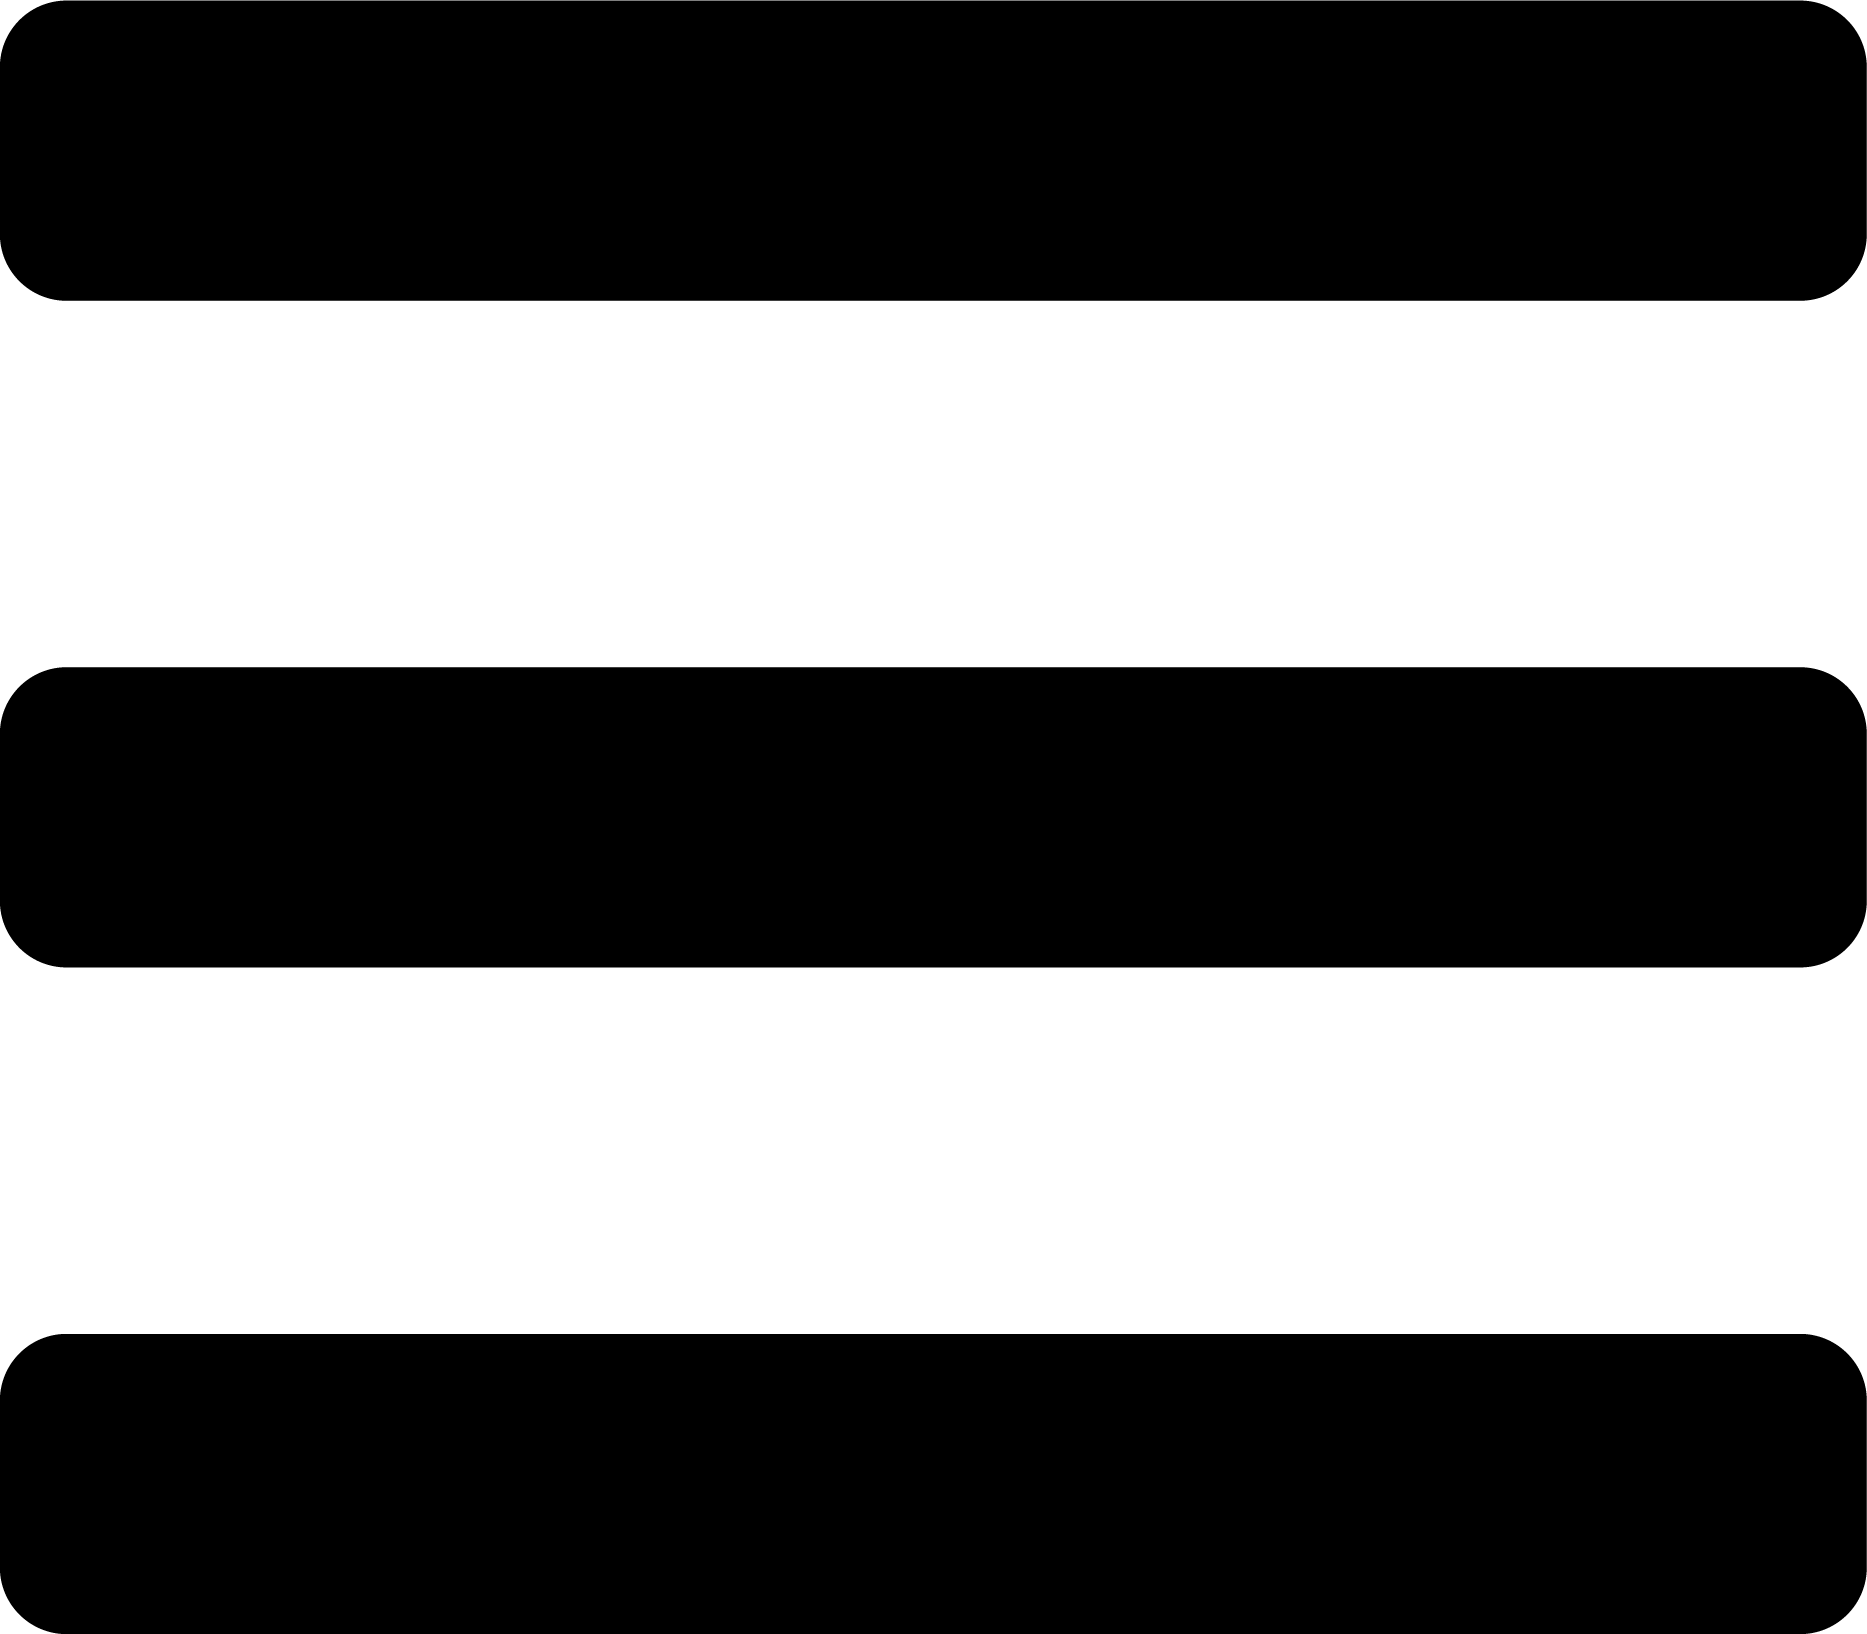
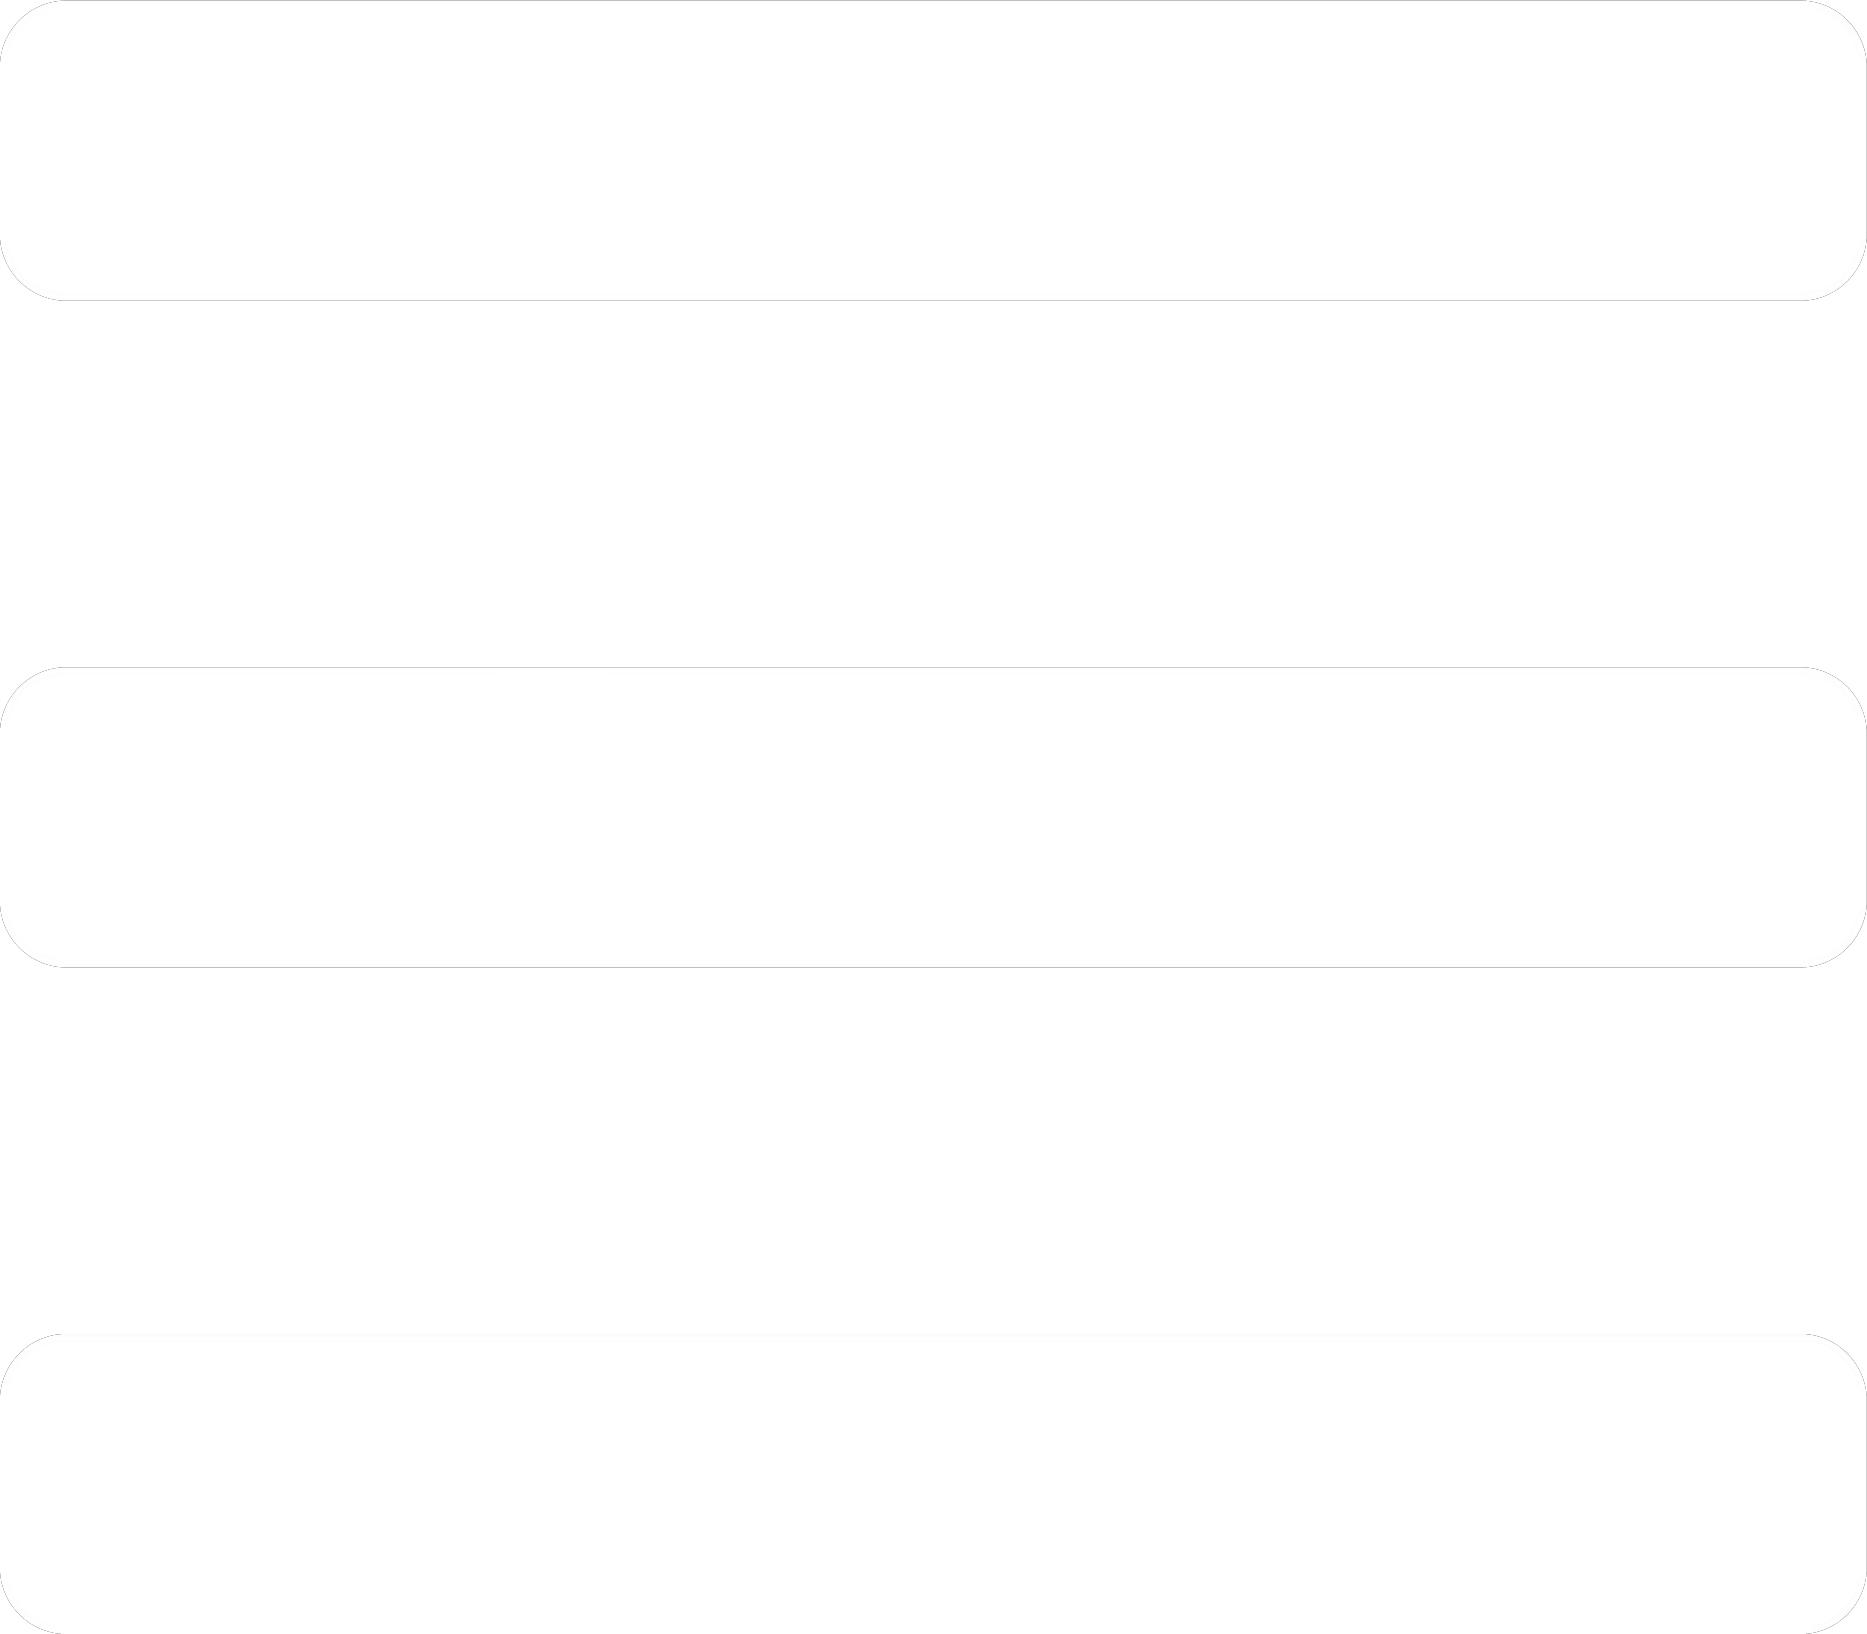
Finsish section services and Add a hamburger Menu

diff --git a/sass/style.scss b/sass/style.scss
@@ -77,6 +77,30 @@ body {
   }
 }
 
+.nav__menu-hamburger {
+  display: none;
+}
+
+.nav__menu-hamburger-ul {
+  display: none;
+  position: absolute;
+  left: -220%;
+  top: -10px;
+  border: 1px solid white;
+  list-style-type: none;
+  color: white;
+  font-size: 30px;
+  background: gold;
+  line-height: 40px;
+  padding: 20px;
+  z-index: 0;
+}
+
+.nav__menu-hamburger-a {
+  text-decoration: none;
+  color: white;
+}
+
 .nav__menu-ul {
   margin-top: 47px;
 }
@@ -163,12 +187,13 @@ body {
   flex-direction: column;
   align-items: center;
   margin-bottom: 165px;
+  padding: 0 20px;
+  text-align: center;
 
   h1 {
     font-size: $font-size-services-title-h1;
     font-family: $font-family-services-title-h1;
     font-weight: 900;
-    text-align: center;
     text-transform: uppercase;
   }
 
@@ -234,14 +259,12 @@ body {
     text-align: center;
     line-height: 20px;
   }
-
-  // margin-top: 110px;
 }
 
-
-
-
 //portfolio
+.portfolio {
+  background: rgb(206, 206, 206);
+}
 
 //footer
 
@@ -252,8 +275,20 @@ body {
     position: absolute;
     left: 10%;
   }
+
   .nav__menu-ul {
     display: none;
+  }
+
+  .nav__menu-hamburger {
+    display: inline;
+    position: absolute;
+    z-index: 5;
+    left: 80%;
+    top: 30px;
+  }
+  .nav__menu-hamburger:hover>.nav__menu-hamburger-ul{
+    display: block;
   }
 
   .header__title {
@@ -272,14 +307,15 @@ body {
     flex-direction: column;
     align-items: center;
   }
+
   .services__icon-one {
     left: 158px;
   }
-  
+
   .services__icon-two {
     left: 158px;
   }
-  
+
   .services__icon-three {
     left: 162px;
   }

diff --git a/css/style.css b/css/style.css
@@ -42,6 +42,30 @@
   font-family: "Great Vibes", cursive, sans-serif;
 }
 
+.nav__menu-hamburger {
+  display: none;
+}
+
+.nav__menu-hamburger-ul {
+  display: none;
+  position: absolute;
+  left: -220%;
+  top: -10px;
+  border: 1px solid white;
+  list-style-type: none;
+  color: white;
+  font-size: 30px;
+  background: gold;
+  line-height: 40px;
+  padding: 20px;
+  z-index: 0;
+}
+
+.nav__menu-hamburger-a {
+  text-decoration: none;
+  color: white;
+}
+
 .nav__menu-ul {
   margin-top: 47px;
 }
@@ -132,13 +156,14 @@
   -ms-flex-align: center;
       align-items: center;
   margin-bottom: 165px;
+  padding: 0 20px;
+  text-align: center;
 }
 
 .services__title h1 {
   font-size: 39px;
   font-family: "Montserrat", sans-serif;
   font-weight: 900;
-  text-align: center;
   text-transform: uppercase;
 }
 
@@ -206,6 +231,10 @@
   line-height: 20px;
 }
 
+.portfolio {
+  background: #cecece;
+}
+
 @media (max-width: 992px) {
   .nav__menu {
     position: absolute;
@@ -213,6 +242,16 @@
   }
   .nav__menu-ul {
     display: none;
+  }
+  .nav__menu-hamburger {
+    display: inline;
+    position: absolute;
+    z-index: 5;
+    left: 80%;
+    top: 30px;
+  }
+  .nav__menu-hamburger:hover > .nav__menu-hamburger-ul {
+    display: block;
   }
   .header__title h1 {
     margin-top: 205px;

diff --git a/index.html b/index.html
@@ -26,6 +26,16 @@
         <li class="nav__menu-li"><a class="nav__menu-a" href="#">Contact</a></li>
       </ul>
     </div>
+    <div class="nav__menu-hamburger">
+      <a href="#"><img src="/images/bars-solid-50.png" alt="Menu" width="45px"></a>
+      <ul class="nav__menu-hamburger-ul">
+        <li class="nav__menu-hamburger-li"><a class="nav__menu-hamburger-a" href="#">Home</a></li>
+        <li class="nav__menu-hamburger-li"><a class="nav__menu-hamburger-a" href="#">Services</a></li>
+        <li class="nav__menu-hamburger-li"><a class="nav__menu-hamburger-a" href="#">Portfolio</a></li>
+        <li class="nav__menu-hamburger-li"><a class="nav__menu-hamburger-a" href="#">About</a></li>
+        <li class="nav__menu-hamburger-li"><a class="nav__menu-hamburger-a" href="#">Contact</a></li>
+      </ul>
+    </div>
   </nav>
   <!-- header -->
   <header class="header container">
@@ -69,6 +79,13 @@
   </section>
 
   <!-- portfolio -->
+
+  <section class="portfolio container">
+    <div class="portfolio__title container__inside">
+      <h1>Our Portfolio</h1>
+      <p>Lorem ipsum dolor sit amet.</p>
+    </div>
+  </section>
 
   <!-- footer -->
 
